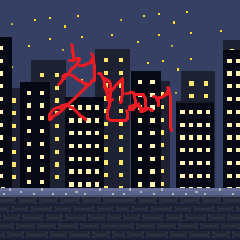
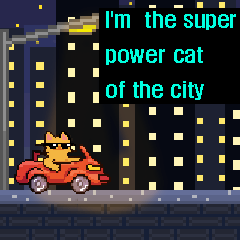
23.11.26 stage1 done

diff --git a/main.py b/main.py
@@ -17,9 +17,9 @@ def main():
     
 
     #이미지 로드
-    background_image0 = Image.open("/home/kau-esw/esw/SuperpowerCat/Asset/test_background.png").convert("RGB")
-    background_image1 = Image.open("/home/kau-esw/esw/SuperpowerCat/Asset/monster_stage.png").convert("RGBA") #몬스터
-    character_image_path = "/home/kau-esw/esw/SuperpowerCat/Asset/Charactor.png"  # 캐릭터 이미지 파일 경로
+    background_image0 = Image.open("/home/kau-esw/esw/SuperpowerCat/Asset/stage1.png").convert("RGB") #스테이지1 배경 완료
+    background_image1 = Image.open("/home/kau-esw/esw/SuperpowerCat/Asset/monster_stage1.png").convert("RGBA") # 몬스터 스테이지1 배경
+    character_image_path = "/home/kau-esw/esw/SuperpowerCat/Asset/Charactor.png"  # 캐릭터 이미지 파일 경로 완료
     skill0 = Image.open("/home/kau-esw/esw/SuperpowerCat/Asset/skill0.png").convert("RGBA")
     skill0_end = Image.open("/home/kau-esw/esw/SuperpowerCat/Asset/skill0_end.png").convert("RGBA")
     skill0_error = Image.open("/home/kau-esw/esw/SuperpowerCat/Asset/skill0_error.png").convert("RGBA")
@@ -29,34 +29,46 @@ def main():
 
     # 플랫폼 생성
     platforms1 = [
-        Platform(0, 210, 480, 70),
-        Platform(100, 190, 50, 10),
+        Platform(0, 210, 1920, 30), #바닥
+        Platform(297, 144, 84, 34),
+        Platform(420, 85, 43, 34),
+        Platform(633,166,86,43),
+        Platform(761,121,86,43),
+        Platform(847,116,120,31),
+        Platform(964,124,84,85),
+        Platform(1309,163,43,34),
+        Platform(1400,126,43,34),
+        Platform(1606,173,33,36),
         #Platform(240, 190, 50, 20) # 플랫폼 위치와 크기 설정
-        # 필요한 만큼 플랫폼을 추가할 수 있습니다.
     ]
 
     intro_image_paths = [
         "/home/kau-esw/esw/SuperpowerCat/Asset/Intro1.png",
         "/home/kau-esw/esw/SuperpowerCat/Asset/Intro2.png",
         "/home/kau-esw/esw/SuperpowerCat/Asset/Intro3.png",
+        "/home/kau-esw/esw/SuperpowerCat/Asset/Intro4.png",
     ]
 
     skills = [skill0, skill0_error, skill0_end,]
 
     obstacle1 = [
         Obstacle(0,210,1,1),
+        Obstacle(442,182,79,27),
+        Obstacle(1384,180,79,27),
+        
+        
     ]
 
     # Joystick 및 Character 클래스 인스턴스 생성
     joystick = Joystick()
 
     my_character = Character(
-        joystick.disp.width // 2 - 20, joystick.disp.height // 2 - 20, character_image_path
+        joystick.disp.width // 2 - 60, joystick.disp.height // 2 - 20, character_image_path
     )
 
     # 포탈 생성
-    portal1 = Portal(260, 190, 50, 20)  # 포탈 위치와 크기 설정
-
+    #portal1 = Portal(260, 190, 50, 20)  # 포탈 위치와 크기 설정
+    portal1 = Portal(1815,121,42,105)
 
     # 인트로 이미지 보여주기
     show_intro_images(joystick, intro_image_paths)

diff --git a/obstacle.py b/obstacle.py
@@ -17,9 +17,15 @@ class Obstacle:
     def is_character_inside(self, character):
         character_left = character.position[0]
         character_right = character.position[0] + character.character_image.width
+        character_top = character.position[1]
+        character_bottom = character.position[1] + character.character_image.height
+
         obstacle_left = self.position[0]
         obstacle_right = self.position[0] + self.width
+        obstacle_top = self.position[1]
+        obstacle_bottom = self.position[1] + self.height
 
-        if obstacle_left <= character_left <= obstacle_right or obstacle_left <= character_right <= obstacle_right:
+        if ((obstacle_left <= character_left <= obstacle_right or obstacle_left <= character_right <= obstacle_right) and
+            (obstacle_top <= character_top <= obstacle_bottom or obstacle_top <= character_bottom <= obstacle_bottom)):
             return True
         return False

diff --git a/game_funtions.py b/game_funtions.py
@@ -65,7 +65,7 @@ def stage1(joystick, my_character, platforms, background_image, obstacles, porta
         my_character.check_collision(obstacles)
         
         if my_character.life_manager.get_lives() < previous_lives:
-            draw.text((10, 10), f"Lives: {my_character.life_manager.get_lives()}", fill="red", font=font)
+            draw.text((170, 10), f"Lives: {my_character.life_manager.get_lives()}", fill="red", font=font)
 
         # 캐릭터의 목숨이 0 이하인 경우 게임 종료
         if my_character.life_manager.get_lives() <= 0:
@@ -76,7 +76,7 @@ def stage1(joystick, my_character, platforms, background_image, obstacles, porta
             print("포탈")
             time.sleep(1)
             # 입력 패턴 정의
-            pattern = ['U', 'U', 'D', 'R', 'L']
+            pattern = ['U', 'D', 'R', 'R', 'U','L','L']
 
 
             # 스테이지2 시작

diff --git a/character.py b/character.py
@@ -37,7 +37,7 @@ class Character:
         # 캐릭터가 플랫폼 위에 있는지 확인
         if not on_platform:
             # 플랫폼 위에 없는 경우, 중력 효과 적용
-            self.position[1] += 2
+            self.position[1] += 3
 
         # 점프 버튼 확인 및 캐릭터 점프
         if joystick.is_button_pressed(joystick.button_U) and not self.jumping and on_platform:
@@ -46,7 +46,7 @@ class Character:
 
         # 점프 중일 때 처리
         if self.jumping:
-            self.position[1] -= 7
+            self.position[1] -= 9
             self.jump_frame_count += 1
 
             if self.jump_frame_count >= self.jump_frames:

diff --git a/README.md b/README.md
@@ -16,3 +16,8 @@ portal add, file modul
 
 23.11.24
 monster_stage1 functions, image add
+
+23.11.26
+stage1_background, Platform, obstacle, portal (x,y,w,h)add,
+Obstacle class modify
+moster_stage1 background change
